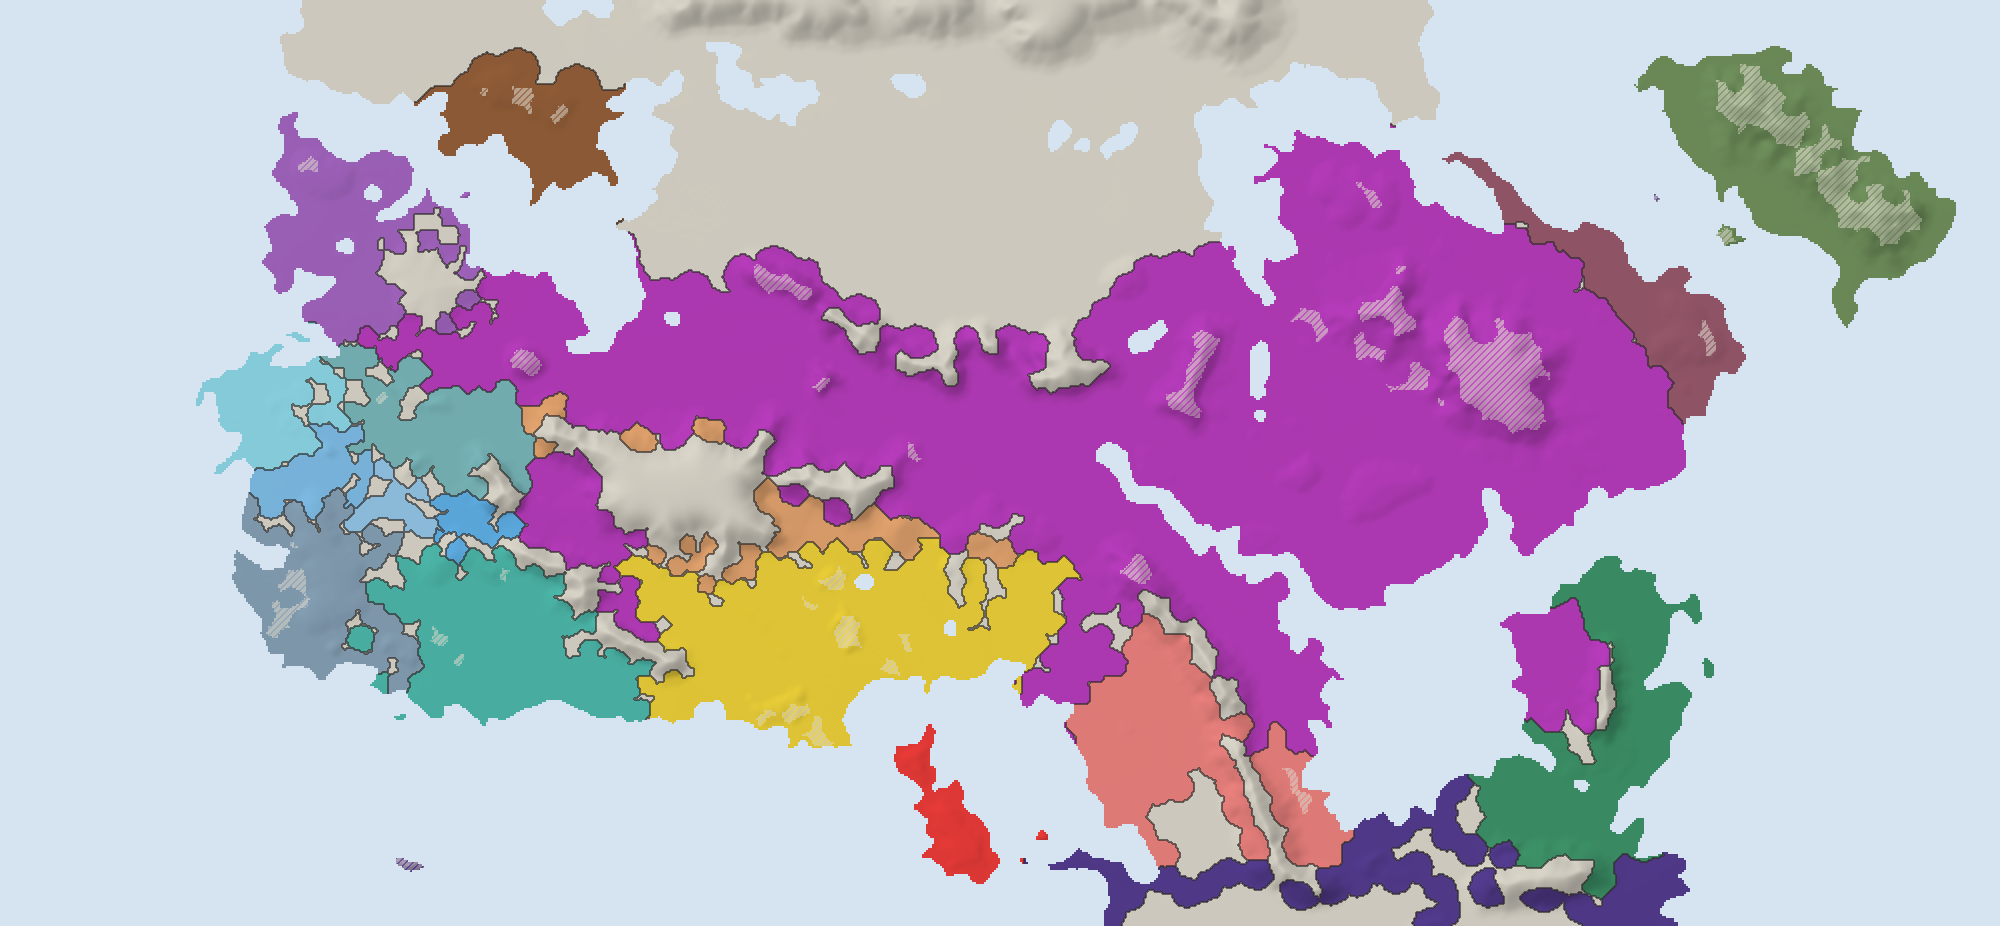
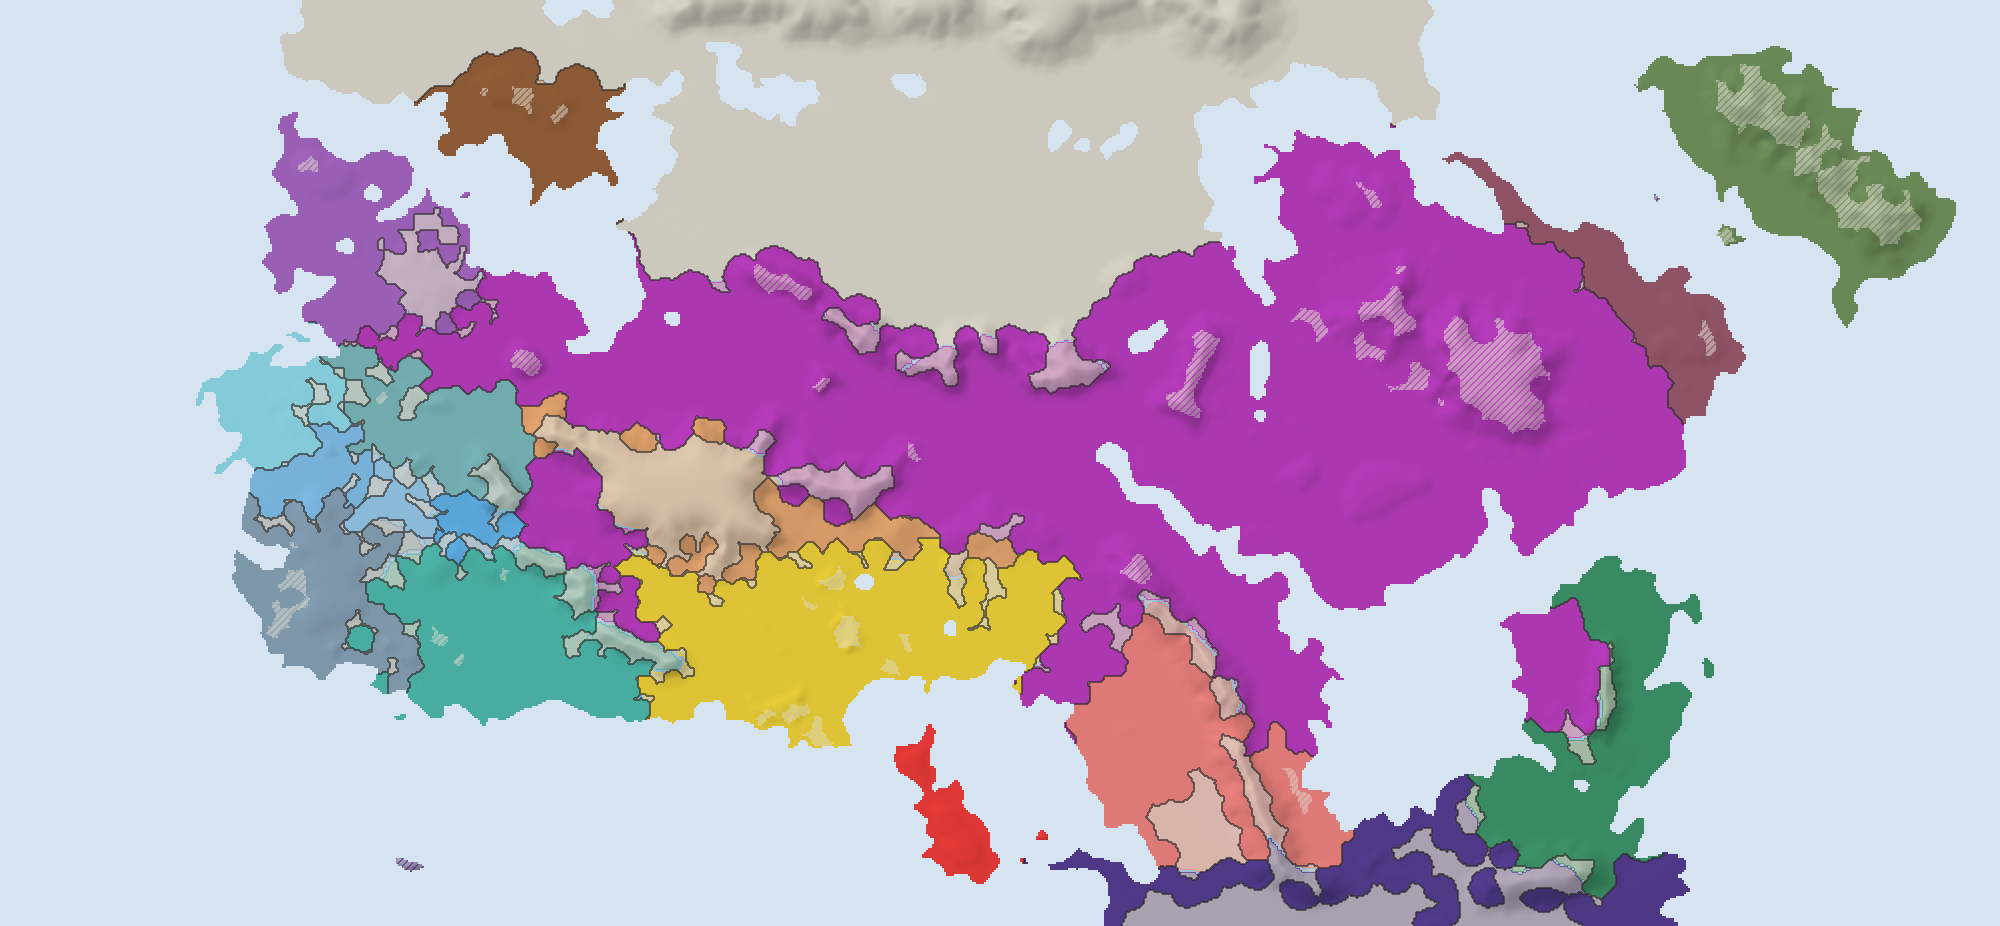
Control v2.1 cartography: painted claims as a light tint and fine line where not held
Each polity now reads as its painted shape with the held core inside; held fill, borders and hatched unadministered
pockets unchanged. Presentation only (the owner's claims; no new model). Smoke passes all three atlases.

Claude-Session: https://claude.ai/code/session_01A8CRvzR5tu3wu9DKzprc7d

diff --git a/scripts/publish_settlement_integration.py b/scripts/publish_settlement_integration.py
@@ -102,12 +102,12 @@ def main():
                 # calibration/geography_control_20261107/plan_A.json
                 vs=json.loads(v21s.read_text())
                 options['reach_defacto'].insert(0,dict(value='v21_joint365',label='Food-supported reach v2.1 · v2 with enclosed land as territory',file=prefix+v21.name,file_sha256=file_hash(v21),
-                    items=[dict(color=a['color'],label=a['name']) for a in model['actors']]+[dict(color='#c9b9c9',label='Hatched: unadministered upland / forest inside a polity (scenario)'),dict(color='#e3decf',label='Not held')],
+                    items=[dict(color=a['color'],label=a['name']) for a in model['actors']]+[dict(color='#c9b9c9',label='Hatched: unadministered upland / forest inside a polity (scenario)'),dict(color='#d9d2c6',label='Light tint and fine line: painted claim, not held'),dict(color='#e3decf',label='Not held, unclaimed')],
                     note=(f"Control v2, with every pocket wholly enclosed by one polity's held land as its territory: {vs['held_land_share']*100:.0f} % of land held, "
                           f"{vs['unadministered_share']*100:.1f} % unadministered upland or forest (pockets steeper, more forested or emptier than the polity's held land). "
                           "Earth tests (calibration/geography_control_20261107/plan_A.json): development Rome AD 150 + Han AD 2; blind Song China AD 1080 0.737 and the late-antique Mediterranean AD 550 0.774, against 0.697 and 0.766 for v2. "
                           "Borders are drawn as lines over the relief; patches under 3 cells are merged. See reports/GEOGRAPHY_CONTROL_PLAN_20261107.md."),
-                    integrated_support=False,caption='Fill: the polity whose staffed towns and kept roads are nearest (year-round days <= 2), plus the land it wholly encloses. Hatching: enclosed but ungoverned. Lines: borders.'))
+                    integrated_support=False,caption='Fill: the polity whose staffed towns and kept roads are nearest (year-round days <= 2), plus the land it wholly encloses. Hatching: enclosed but ungoverned. Light tint: your painted claim where it is not held. Dark lines: borders of held territory.'))
             for filename in ['settled_reach.json.gz','settled_reach.bin.gz']:shutil.copyfile(out/filename,folder/filename)
             packets[mode]=dict(shape=review['shape'],cell_px=review['cell_px'],land_cells=review['land_cells'],masks_shape=review['masks_shape'],offsets=review['offsets'],raw_bytes=review['raw_bytes'],options=options,
                 payload=prefix+'settled_reach.json.gz',payload_sha256=file_hash(folder/'settled_reach.json.gz'),binary=prefix+'settled_reach.bin.gz',binary_sha256=file_hash(folder/'settled_reach.bin.gz'),

diff --git a/scripts/build_control_v21.py b/scripts/build_control_v21.py
@@ -116,6 +116,28 @@ def build(name, mode):
     tint = rgb[uu] * 0.75 + colors[terr_up[uu]] * 0.25
     tint[hatch] = tint[hatch] * 0.55 + colors[terr_up[uu]][hatch] * 0.45
     rgb[uu] = tint
+    # the owner's painted claims (polity/fields.polity_fills), each assigned to the actor most of its sites belong to:
+    # claimed land that no polity holds is tinted lightly in the claimant's colour, with the claim's edge as a fine line
+    from polity.fields import polity_fills
+    cids, _ = polity_fills(shape)
+    site_claim = cids.ravel()[nodes]; claim_actor = {}
+    for c in np.unique(site_claim[site_claim > 0]):
+        a_ = aidx[(site_claim == c) & (aidx >= 0)]
+        if len(a_):
+            claim_actor[int(c)] = int(np.bincount(a_).argmax())
+    claimant = np.full(shape, -1, int)
+    for c, a_ in claim_actor.items():
+        claimant[cids == c] = a_
+    cl_up = up((claimant + 1).astype(np.uint8)).astype(int) - 1
+    cu = land_up & (terr_up < 0) & (cl_up >= 0)
+    rgb[cu] = rgb[cu] * 0.80 + colors[cl_up[cu]] * 0.20
+    ce = np.zeros((H, W), bool)
+    for dy, dx in ((0, 1), (1, 0)):
+        a, b = cl_up[:H - dy, :W - dx], cl_up[dy:, dx:]
+        diff = (a != b) & ((a >= 0) | (b >= 0))
+        ce[:H - dy, :W - dx] |= diff; ce[dy:, dx:] |= diff
+    ce &= land_up & (terr_up < 0)
+    rgb[ce] = rgb[ce] * 0.55 + colors[np.maximum(cl_up[ce], 0)] * 0.45
     # borders: where the territory owner changes (between polities, and territory against unheld land)
     t = np.where(land_up, terr_up, -2)
     edge = np.zeros((H, W), bool)
@@ -130,6 +152,7 @@ def build(name, mode):
                    rule=("summed influence of staffed towns (plan_A C*)" if adopt == "C_star" else "control v2 (P2)") + "; pockets bounded by one polity are its territory",
                    staffed=int(active.sum()), sites=int(len(sites)), held_land_share=float(held.sum() / land.sum()),
                    territory_land_share=float((territory >= 0).sum() / land.sum()), unadministered_share=float(unadmin.sum() / land.sum()),
+                   claimed_unheld_share=float((land & (territory < 0) & (claimant >= 0)).sum() / land.sum()),
                    held_km2=float(held.sum() * km2), actors=[dict(actor=a["name"], staffed=n) for a, n in zip(actors, staffed_n)])
     (out / "summary.json").write_text(json.dumps(summary, indent=1))
     print(f"{name} {mode}: held {summary['held_land_share']:.1%}, territory {summary['territory_land_share']:.1%}, "
